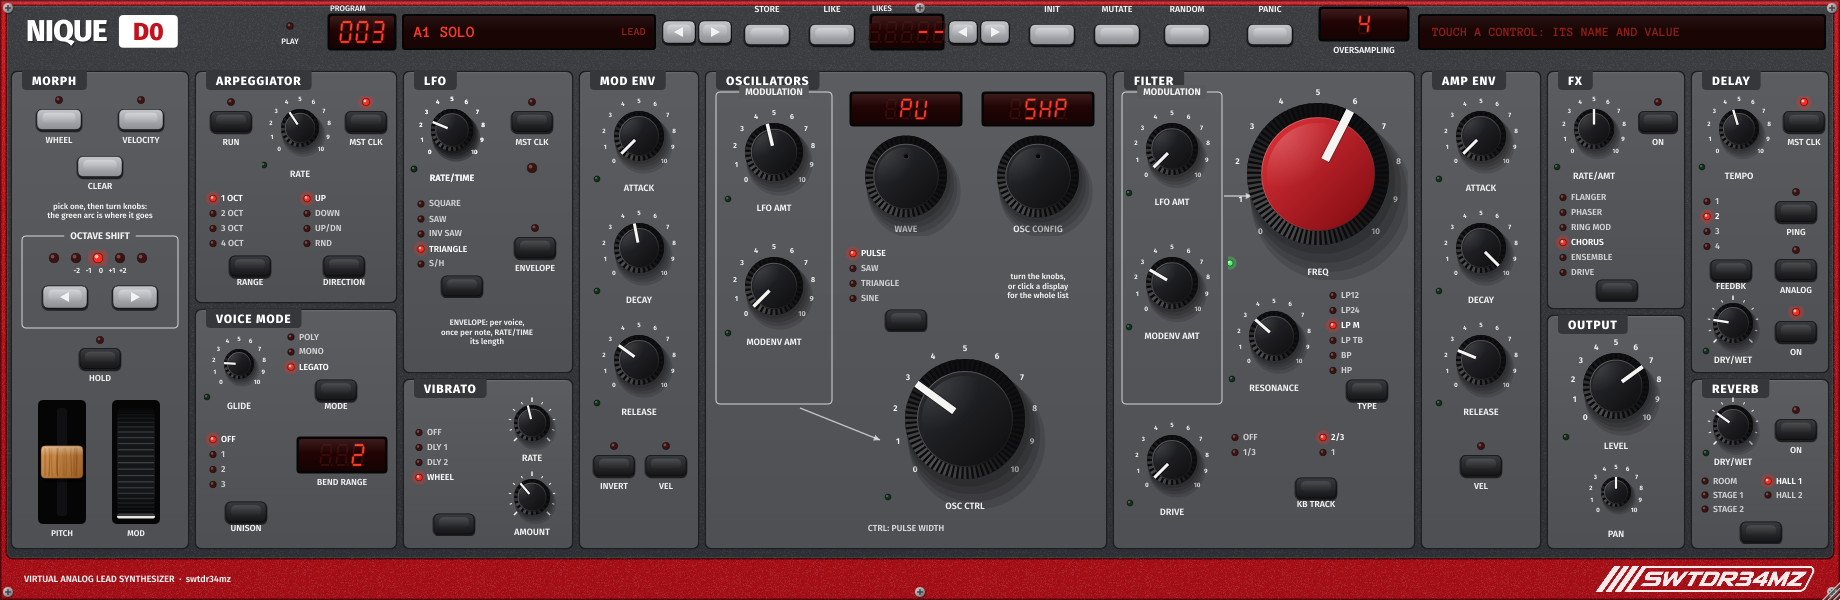
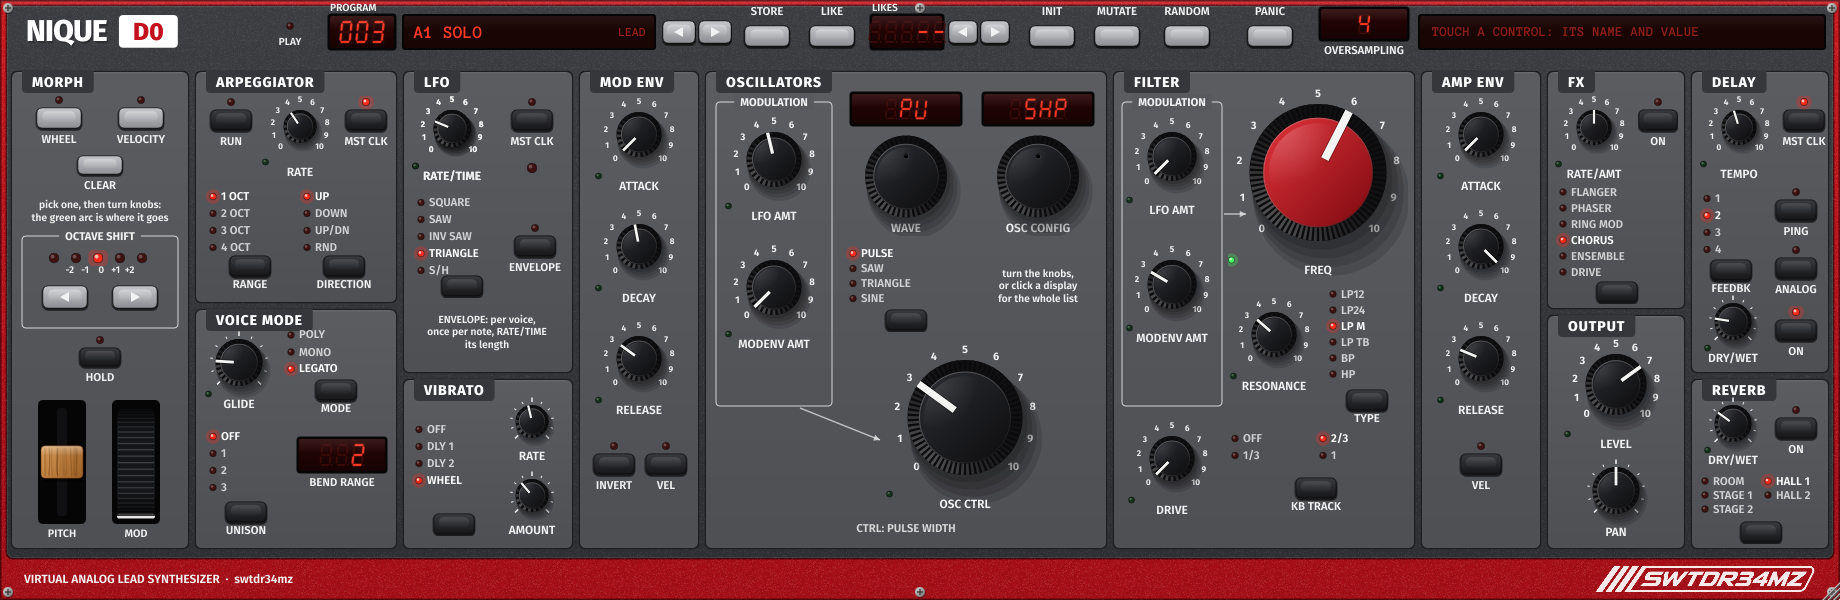
Panel: larger print, the window as large as the screen allows
All labels about 30 % larger (the knobs' figures, the sections' and the LEDs' names, the
displays' text), with room made for them. The window opens as large as the screen allows the
first time (a MacBook Air: about 1380 points wide instead of 1325 with smaller print), never
larger than the screen; a size saved by an earlier version is not kept.

Claude-Session: https://claude.ai/code/session_019gwqiLx9vhUv2R9E4RVmAS

diff --git a/src/PluginEditor.cpp b/src/PluginEditor.cpp
@@ -116,30 +116,30 @@ struct NiqueEditor::Header : Component {
     {
         drawLogo(g, logo());
         drawLed(g, {290.0f, 26.0f}, 3.4f, ed.proc.voices.load() > 0 ? 1.0f : 0.0f);
-        drawLabel(g, "PLAY", {272.0f, 34.0f, 36.0f, 14.0f}, 9.5f);
-        drawLabel(g, "PROGRAM", {330.0f, 1.0f, 120.0f, 14.0f}, 9.5f, Justification::centredLeft);
+        drawLabel(g, "PLAY", {266.0f, 34.0f, 48.0f, 16.0f}, 9.5f);
+        drawLabel(g, "PROGRAM", {330.0f, 0.0f, 120.0f, 16.0f}, 9.5f, Justification::centredLeft);
         int p = ed.proc.getCurrentProgram();
         drawDisplay(g, num(), String(p + 1).paddedLeft('0', 3) + (edited ? "." : ""), 3);
         drawLcd(g, name());
-        g.setFont(font(Face::mono, 16.0f));
+        g.setFont(font(Face::mono, 18.0f));
         g.setColour(col::lcdText);
         g.drawText(ed.proc.getProgramName(p), name().reduced(10.0f, 0.0f), Justification::centredLeft, true);
         g.setColour(col::lcdText.withAlpha(0.55f));
-        g.setFont(font(Face::mono, 11.0f));
+        g.setFont(font(Face::mono, 12.5f));
         String grp = p < numPresets() ? String(presetGroup(p)) : String("YOURS");
         g.drawText(grp, name().reduced(8.0f, 0.0f), Justification::centredRight, true);
-        drawLabel(g, "LIKES", {872.0f, 1.0f, 70.0f, 14.0f}, 9.5f, Justification::centredLeft);
+        drawLabel(g, "LIKES", {872.0f, 0.0f, 70.0f, 16.0f}, 9.5f, Justification::centredLeft);
         int n = ed.proc.numLikes();
         drawDisplay(g, likeNum(), n == 0 ? String("--") : String(ed.proc.likePos + 1) + "-" + String(n), 5);
         drawLcd(g, read());
         if (ed.inHand) {
-            g.setFont(font(Face::mono, 15.0f));
+            g.setFont(font(Face::mono, 17.0f));
             g.setColour(col::lcdText.withAlpha(0.7f));
             g.drawText(ed.inHand->getName(40), read().reduced(12.0f, 0.0f), Justification::centredLeft, true);
             g.setColour(col::lcdText);
             g.drawText(ed.inHand->getCurrentValueAsText(), read().reduced(12.0f, 0.0f), Justification::centredRight, true);
         } else {
-            g.setFont(font(Face::mono, 13.0f));
+            g.setFont(font(Face::mono, 14.0f));
             g.setColour(col::lcdText.withAlpha(0.5f));
             g.drawText(ed.ui.morph == 0 ? "TOUCH A CONTROL: ITS NAME AND VALUE"
                                         : (ed.ui.morph == 1 ? "MORPH WHEEL: TURN A KNOB TO WHERE THE WHEEL TAKES IT"
@@ -295,9 +295,9 @@ NiqueEditor::NiqueEditor(NiqueProcessor &p) : AudioProcessorEditor(&p), proc(p)
 
     /* ------------------------------------------------------------------------- OSCILLATORS --- */
     section({706, 72, 400, 476}, "OSCILLATORS");
-    section({716, 92, 116, 312}, "MODULATION", true);
-    knob("osc_lfo", "LFO AMT", {722, 104, 104, 112});
-    knob("osc_menv", "MODENV AMT", {722, 238, 104, 112});
+    section({716, 102, 116, 304}, "MODULATION", true);
+    knob("osc_lfo", "LFO AMT", {722, 112, 104, 114});
+    knob("osc_menv", "MODENV AMT", {722, 240, 104, 114});
     page.arrows.push_back({800.0f, 408.0f, 880.0f, 440.0f});
     {
         auto *w = add(new Endless(a, "osc_wave", ui, waveShort, [](int w) { return String(waveLongName(w)); }, waveGroup),
@@ -337,14 +337,14 @@ NiqueEditor::NiqueEditor(NiqueProcessor &p) : AudioProcessorEditor(&p), proc(p)
 
     /* ------------------------------------------------------------------------------ FILTER --- */
     section({1114, 72, 300, 476}, "FILTER");
-    section({1122, 92, 100, 312}, "MODULATION", true);
-    knob("flt_lfo", "LFO AMT", {1126, 104, 92, 106});
-    knob("flt_menv", "MODENV AMT", {1126, 238, 92, 106});
-    page.arrows.push_back({1224.0f, 196.0f, 1252.0f, 196.0f});
+    section({1122, 102, 100, 304}, "MODULATION", true);
+    knob("flt_lfo", "LFO AMT", {1126, 112, 92, 108});
+    knob("flt_menv", "MODENV AMT", {1126, 240, 92, 108});
+    page.arrows.push_back({1224.0f, 214.0f, 1246.0f, 214.0f});
     auto *freq = knob("flt_freq", "FREQ", {1228, 84, 180, 196});
     freq->redCap = true;
     knob("flt_res", "RESONANCE", {1228, 292, 92, 104});
-    sel("flt_type", {"LP12", "LP24", "LP M", "LP TB", "BP", "HP"}, {1326, 288, 82, 128}, "TYPE");
+    sel("flt_type", {"LP12", "LP24", "LP M", "LP TB", "BP", "HP"}, {1326, 280, 82, 146}, "TYPE")->rowH = 16;
     knob("flt_drive", "DRIVE", {1126, 416, 92, 104});
     {
         auto *kb = sel("flt_kb", {"OFF", "1/3", "2/3", "1"}, {1228, 430, 176, 84}, "KB TRACK");
@@ -362,7 +362,7 @@ NiqueEditor::NiqueEditor(NiqueProcessor &p) : AudioProcessorEditor(&p), proc(p)
     section({1548, 72, 136, 236}, "FX");
     knob("fx_amt", "RATE/AMT", {1554, 90, 80, 94});
     key("fx_on", "ON", {1638, 96, 40, 54});
-    sel("fx_type", {"FLANGER", "PHASER", "RING MOD", "CHORUS", "ENSEMBLE", "DRIVE"}, {1556, 190, 122, 112});
+    sel("fx_type", {"FLANGER", "PHASER", "RING MOD", "CHORUS", "ENSEMBLE", "DRIVE"}, {1556, 184, 122, 120})->rowH = 16;
 
     /* ------------------------------------------------------------------------------ OUTPUT --- */
     section({1548, 316, 136, 232}, "OUTPUT");
@@ -405,8 +405,13 @@ NiqueEditor::NiqueEditor(NiqueProcessor &p) : AudioProcessorEditor(&p), proc(p)
     setResizable(true, true);
     getConstrainer()->setFixedAspectRatio((double)W / (double)H);
     setResizeLimits(W * 2 / 5, H * 2 / 5, (int)(W * 1.5f), (int)(H * 1.5f));
+    /* the window: as it was left, or (the first time) as large as the screen allows, and never larger than it */
+    float fit = 1.0f;
+    if (auto *d = Desktop::getInstance().getDisplays().getPrimaryDisplay())
+        fit = jmin(1.25f, 0.96f * (float)d->userArea.getWidth() / (float)W, 0.88f * (float)d->userArea.getHeight() / (float)H);
     float s = proc.uiScale.load();
-    setSize((int)std::lround(W * s), (int)std::lround(H * s));
+    s = s < 0.0f ? fit : jmin(s, jmax(fit, 0.4f));
+    setSize((int)std::lround(W * jmax(0.4f, s)), (int)std::lround(H * jmax(0.4f, s)));
     timerCallback();
     startTimerHz(30);
 }

diff --git a/src/ui/Look.cpp b/src/ui/Look.cpp
@@ -142,9 +142,9 @@ void drawSection(Graphics &g, Rectangle<float> r, const String &title)
     g.setColour(Colours::white.withAlpha(0.10f));
     g.drawLine(r.getX() + 6.0f, r.getY() + 0.8f, r.getRight() - 6.0f, r.getY() + 0.8f, 1.0f);
     if (title.isNotEmpty()) {            /* the name in a darker tab on the top edge */
-        auto f = font(Face::logo, 14.5f).withExtraKerningFactor(0.06f);
+        auto f = font(Face::logo, 17.0f).withExtraKerningFactor(0.05f);
         float w = GlyphArrangement::getStringWidth(f, title) + 20.0f;
-        auto t = Rectangle<float>(r.getX() + 10.0f, r.getY() - 1.0f, w, 19.0f);
+        auto t = Rectangle<float>(r.getX() + 10.0f, r.getY() - 1.0f, w, 22.0f);
         Path tab;
         tab.addRoundedRectangle(t.getX(), t.getY(), t.getWidth(), t.getHeight(), 4.0f, 4.0f, false, false, true, true);
         g.setColour(Colour(0xff36373b));
@@ -160,9 +160,9 @@ void drawSub(Graphics &g, Rectangle<float> r, const String &title)
     g.setColour(col::print.withAlpha(0.75f));
     g.drawRoundedRectangle(r, 4.0f, 1.1f);
     if (title.isNotEmpty()) {
-        auto f = font(Face::title, 11.5f);
+        auto f = font(Face::title, 13.5f);
         float w = GlyphArrangement::getStringWidth(f, title) + 12.0f;
-        auto t = Rectangle<float>(w, 14.0f).withCentre({r.getCentreX(), r.getY()});
+        auto t = Rectangle<float>(w, 16.0f).withCentre({r.getCentreX(), r.getY()});
         g.setColour(Colour(0xff58595d));
         g.fillRect(t);
         g.setColour(col::print);
@@ -182,17 +182,17 @@ void drawKnob(Graphics &g, Rectangle<float> r, float pos, bool redCap, bool scal
     auto c = r.getCentre();
     const float rad = d * 0.5f;
     const bool numbers = scale && d > 66.0f;
-    const float body = scale ? (numbers ? rad - 19.0f : rad - 9.0f) : rad * 0.9f;
+    const float body = scale ? (numbers ? rad - 20.0f : rad - 9.0f) : rad * 0.9f;
     const float PI_ = MathConstants<float>::pi;
     if (scale) {                         /* the printed scale: 0 .. 10, a figure at each step on the larger ones */
         g.setColour(col::print);
-        float fs = jlimit(7.5f, 10.0f, body * 0.3f);
+        float fs = jlimit(10.0f, 13.0f, body * 0.42f);
         g.setFont(font(Face::title, fs));
         for (int k = 0; k <= 10; k++) {
             float a = -A0 + ASPAN * (float)k / 10.0f;
             if (numbers) {
-                auto p = c.getPointOnCircumference(body + 10.5f, a);
-                g.drawText(String(k), Rectangle<float>(16.0f, 11.0f).withCentre(p), Justification::centred, false);
+                auto p = c.getPointOnCircumference(body + 11.0f, a);
+                g.drawText(String(k), Rectangle<float>(18.0f, 13.0f).withCentre(p), Justification::centred, false);
             } else {
                 auto p1 = c.getPointOnCircumference(body + 3.0f, a), p2 = c.getPointOnCircumference(body + (k % 5 == 0 ? 7.5f : 5.5f), a);
                 g.drawLine({p1, p2}, k % 5 == 0 ? 1.5f : 1.0f);
@@ -456,8 +456,8 @@ void drawLcd(Graphics &g, Rectangle<float> r)
 void drawLabel(Graphics &g, const String &s, Rectangle<float> r, float size, Justification j, Colour c)
 {
     g.setColour(c);
-    g.setFont(font(Face::label, size));
-    g.drawFittedText(s, r.toNearestInt(), j, 2, 0.8f);
+    g.setFont(font(Face::label, size * TEXT));
+    g.drawFittedText(s, r.toNearestInt(), j, 2, 0.75f);
 }
 
 void drawLogo(Graphics &g, Rectangle<float> r)

diff --git a/src/ui/Controls.cpp b/src/ui/Controls.cpp
@@ -31,7 +31,7 @@ Rectangle<float> Knob::knobArea() const
 {
     auto r = getLocalBounds().toFloat();
     if (legend.isNotEmpty())
-        r.removeFromBottom(16.0f);
+        r.removeFromBottom(19.0f);
     float d = knobSize > 0.0f ? knobSize : jmin(r.getWidth(), r.getHeight());
     return Rectangle<float>(d, d).withCentre(r.getCentre());
 }
@@ -59,7 +59,7 @@ void Knob::paint(Graphics &g)
         drawLed(g, c, 3.0f, any ? 1.0f : (ui.morph && can ? 0.25f : 0.0f), col::green);
     }
     if (legend.isNotEmpty())
-        drawLabel(g, legend, getLocalBounds().toFloat().removeFromBottom(16.0f), 11.0f);
+        drawLabel(g, legend, getLocalBounds().toFloat().removeFromBottom(19.0f), 11.0f);
 }
 
 void Knob::mouseEnter(const MouseEvent &) { ui.touched(editing ? *editing : param); }
@@ -159,11 +159,11 @@ void Key::paint(Graphics &g)
     drawLed(g, ledArea.getCentre(), 3.6f, on() ? 1.0f : 0.0f);
     Rectangle<float> lab;
     if (legend.isNotEmpty())
-        lab = r.removeFromBottom(15.0f);
+        lab = r.removeFromBottom(18.0f);
     auto k = Rectangle<float>(jmin(r.getWidth() - 2.0f, 40.0f), jmin(r.getHeight() - 4.0f, 20.0f)).withCentre(r.getCentre());
     drawKey(g, k, down);
     if (legend.isNotEmpty())
-        drawLabel(g, legend, lab, 10.5f);
+        drawLabel(g, legend, lab.expanded(8.0f, 0.0f), 10.5f);
 }
 
 void Key::mouseEnter(const MouseEvent &) { ui.touched(param); }
@@ -235,7 +235,7 @@ void Selector::paint(Graphics &g)
     if (hasKey) {
         drawKey(g, keyArea(), down);
         if (legend.isNotEmpty())
-            drawLabel(g, legend, keyArea().translated(0.0f, 19.0f).expanded(20.0f, 0.0f).withHeight(14.0f), 10.5f);
+            drawLabel(g, legend, keyArea().translated(0.0f, 20.0f).expanded(20.0f, 0.0f).withHeight(17.0f), 10.5f);
     }
 }
 
@@ -411,7 +411,7 @@ void ActionKey::paint(Graphics &g)
     }
     Rectangle<float> lab;
     if (legend.isNotEmpty())
-        lab = legendAbove ? r.removeFromTop(15.0f) : r.removeFromBottom(15.0f);
+        lab = legendAbove ? r.removeFromTop(18.0f) : r.removeFromBottom(18.0f);
     auto k = Rectangle<float>(jmin(r.getWidth() - 2.0f, 44.0f), jmin(r.getHeight() - 4.0f, 20.0f)).withCentre(r.getCentre());
     drawKey(g, k, down, true);
     if (legend.isNotEmpty())

diff --git a/src/PluginProcessor.cpp b/src/PluginProcessor.cpp
@@ -296,6 +296,7 @@ void NiqueProcessor::getStateInformation(juce::MemoryBlock &destData)
     auto state = apvts.copyState();
     state.setProperty("program", program, nullptr);
     state.setProperty("uiScale", uiScale.load(), nullptr);
+    state.setProperty("uiVersion", 2, nullptr);   /* (2: the larger print; an older size is not kept) */
     juce::MemoryOutputStream likeData;   /* the likes: how many values each, then the sounds' values */
     likeData.writeInt(NPARAMS);
     for (auto &l : likes)
@@ -313,7 +314,10 @@ void NiqueProcessor::setStateInformation(const void *data, int sizeInBytes)
         if (xml->hasTagName(apvts.state.getType())) {
             auto state = juce::ValueTree::fromXml(*xml);
             program = juce::jlimit(0, juce::jmax(0, getNumPrograms() - 1), (int)state.getProperty("program", 0));
-            uiScale = juce::jlimit(0.4f, 1.5f, (float)state.getProperty("uiScale", 0.72f));
+            {
+                float u = (int)state.getProperty("uiVersion", 1) >= 2 ? (float)state.getProperty("uiScale", -1.0f) : -1.0f;
+                uiScale = u < 0.0f ? -1.0f : juce::jlimit(0.4f, 1.5f, u);
+            }
             likes.clear();
             juce::MemoryBlock mb;
             if (mb.fromBase64Encoding(state.getProperty("likes", "").toString())) {

diff --git a/src/PluginProcessor.h b/src/PluginProcessor.h
@@ -71,7 +71,7 @@ public:
     std::atomic<float> uiWheel{-1.0f}, uiBend{-1.0f};
     std::atomic<float> wheelPos{0.0f}, bendPos{0.5f}, lfoLevel{0.0f}, outLevel{0.0f};
     std::atomic<int> voices{0};
-    std::atomic<float> uiScale{0.72f};
+    std::atomic<float> uiScale{-1.0f};    /* the window's size (-1: never set: as large as the screen allows) */
     std::atomic<bool> panicRequest{false};
 
 private:

diff --git a/src/ui/Look.h b/src/ui/Look.h
@@ -25,6 +25,7 @@ struct UiResources {
     ~UiResources();
 };
 juce::Font font(Face f, float height);
+constexpr float TEXT = 1.3f;            /* the print's size against the first panel (readable on a laptop) */
 
 class Look : public juce::LookAndFeel_V4
 {

diff --git a/src/ui/Controls.h b/src/ui/Controls.h
@@ -77,7 +77,7 @@ public:
     juce::StringArray names;
     juce::String legend;                 /* under the key */
     bool keyAtTop = false, twoColumns = false, hasKey = true;
-    int rowH = 15;
+    int rowH = 17;
 
 private:
     UiState &ui;
